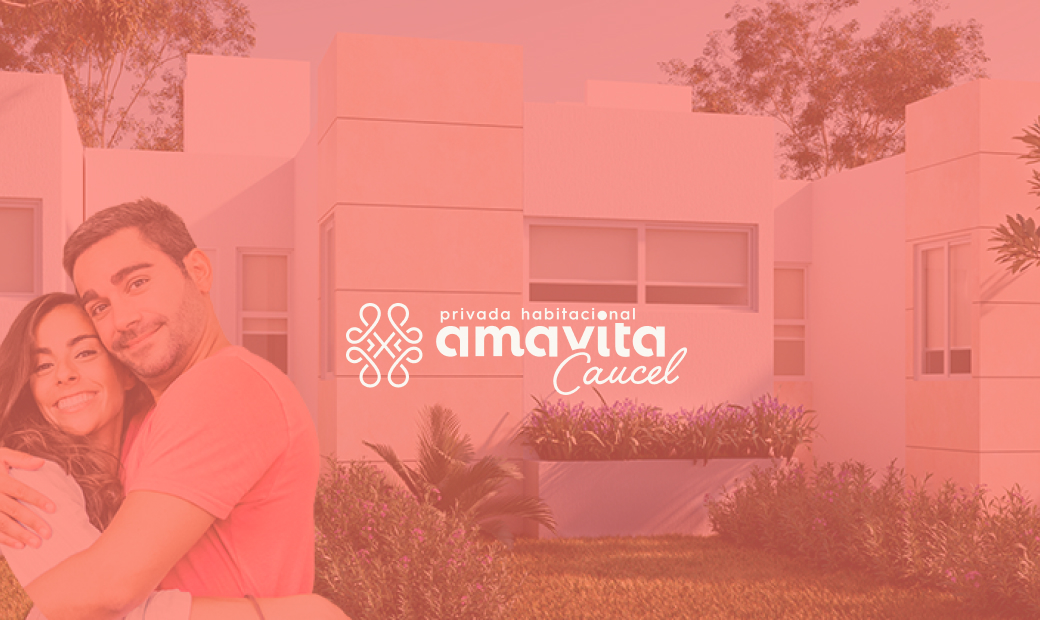
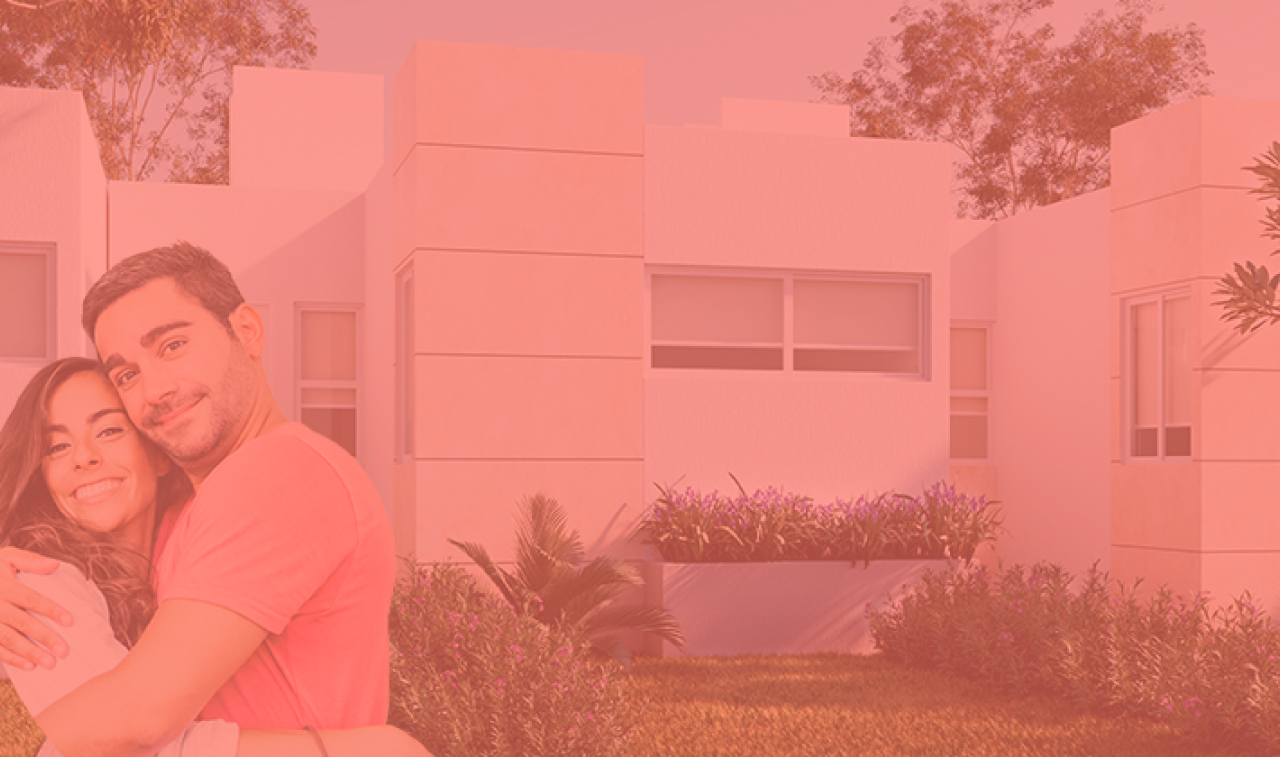
pagina de agradecimiento lista, proyecto terminado

diff --git a/public/css/style-amavita.css b/public/css/style-amavita.css
@@ -381,3 +381,23 @@ footer {
 .bco {
     color: #fff !important;
 }
+
+.typ {
+    background-image: url(/img/modelos/lead/TYP.jpg);
+    background-position: center;
+    background-size: cover;
+    min-height: 100vh;
+    background-repeat: no-repeat;
+}
+
+.acomodo {
+    text-align: center;
+    position: relative;
+    top: 180px;
+}
+
+@media (max-width:600px) {
+    .acomodo h2 {
+        font-size: 20px;
+    }
+}

diff --git a/resources/views/modelos/lead/gracias.blade.php b/resources/views/modelos/lead/gracias.blade.php
@@ -1,0 +1,19 @@
+@extends('layouts.lead')
+@section('content')
+    
+    <header>
+        <div class="typ">
+            <div class="container">
+                <div class="col-12 alignt-items-end">
+                    <div class="acomodo">
+                        <h2 class="hurmebold pt-3" style="color: #fff">¡Gracias por cotizar con nosotros! <br> Pronto estarás viviendo en</h2>
+                        <img src="{{asset('img/modelos/lead/amavita-bco.svg')}}" class="img-fluid mt-3" alt="Logotipo Amavita Caucel">
+                        <p class=" mt-3" style="color: #fff">En breve un asesor estará en contacto contigo</p>
+                        <a href="#" class="btn btn-primary mt-3">Regresar al inicio</a>
+                    </div>
+                </div>
+            </div>
+        </div>
+    </header>
+
+@endsection

diff --git a/routes/web.php b/routes/web.php
@@ -54,6 +54,10 @@ Route::get('/lead-citala', function(){
     return view ('modelos.lead.citala');
 });
 
+Route::get('/gracias-por-registrarte', function(){
+    return view ('modelos.lead.gracias');
+});
+
 Route::middleware(['auth:sanctum', 'verified'])->get('/dashboard', function () {
     return view('dashboard');
 })->name('dashboard');
